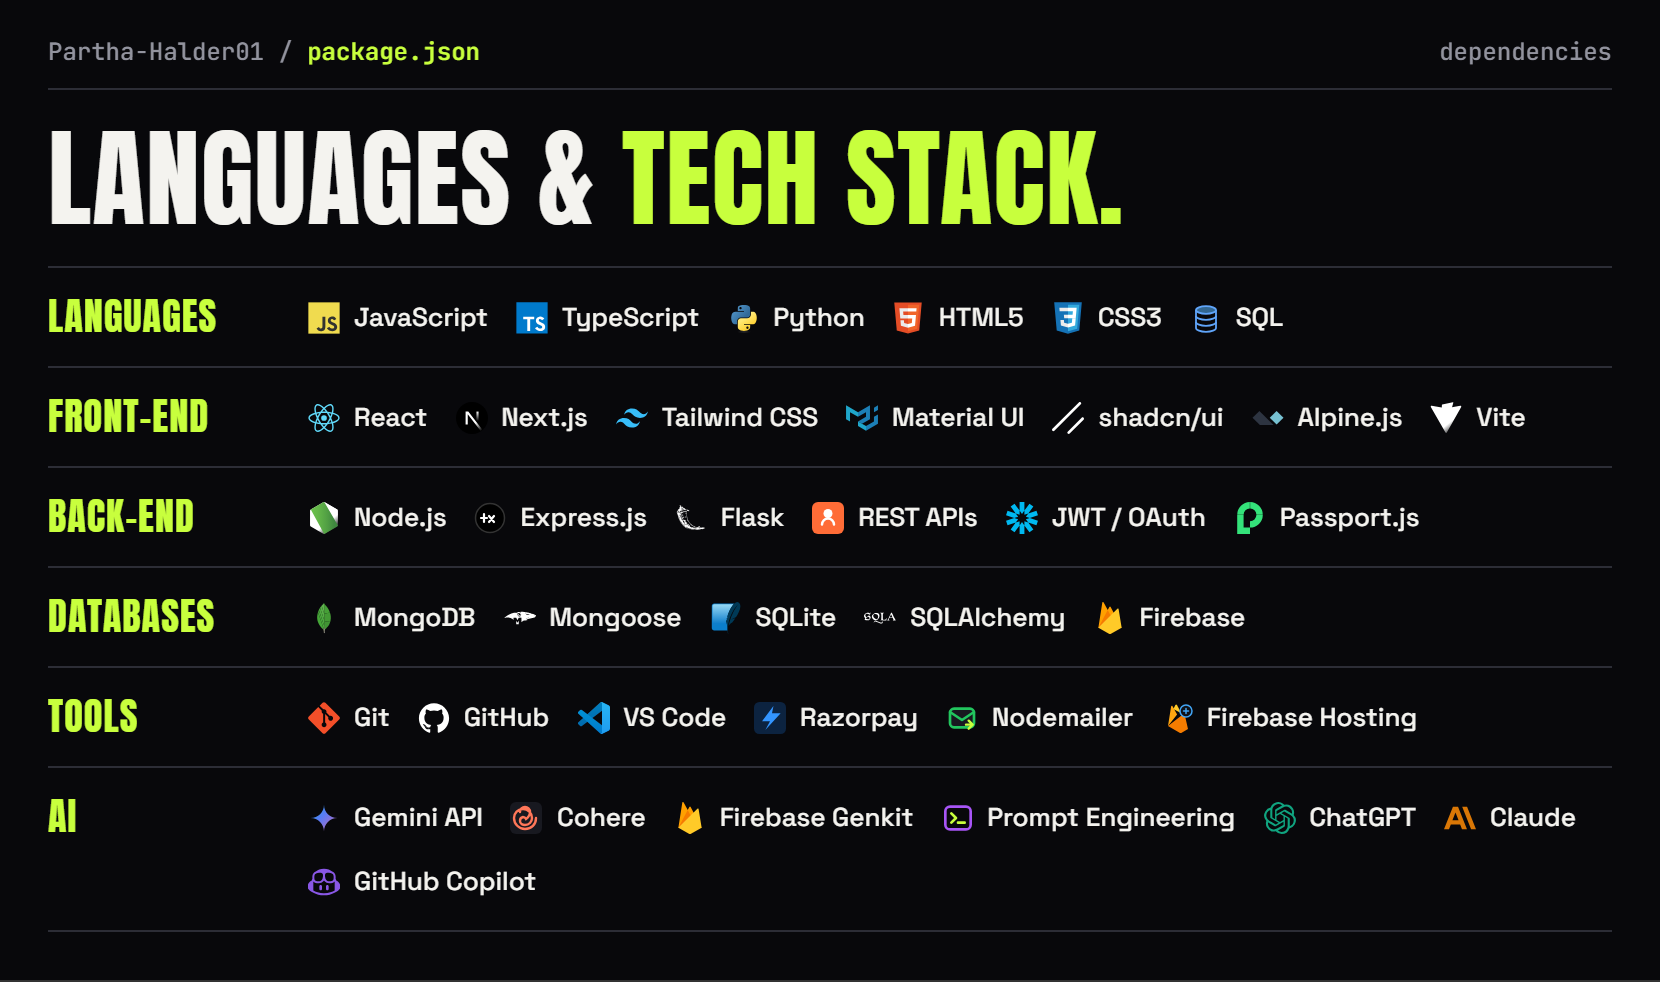
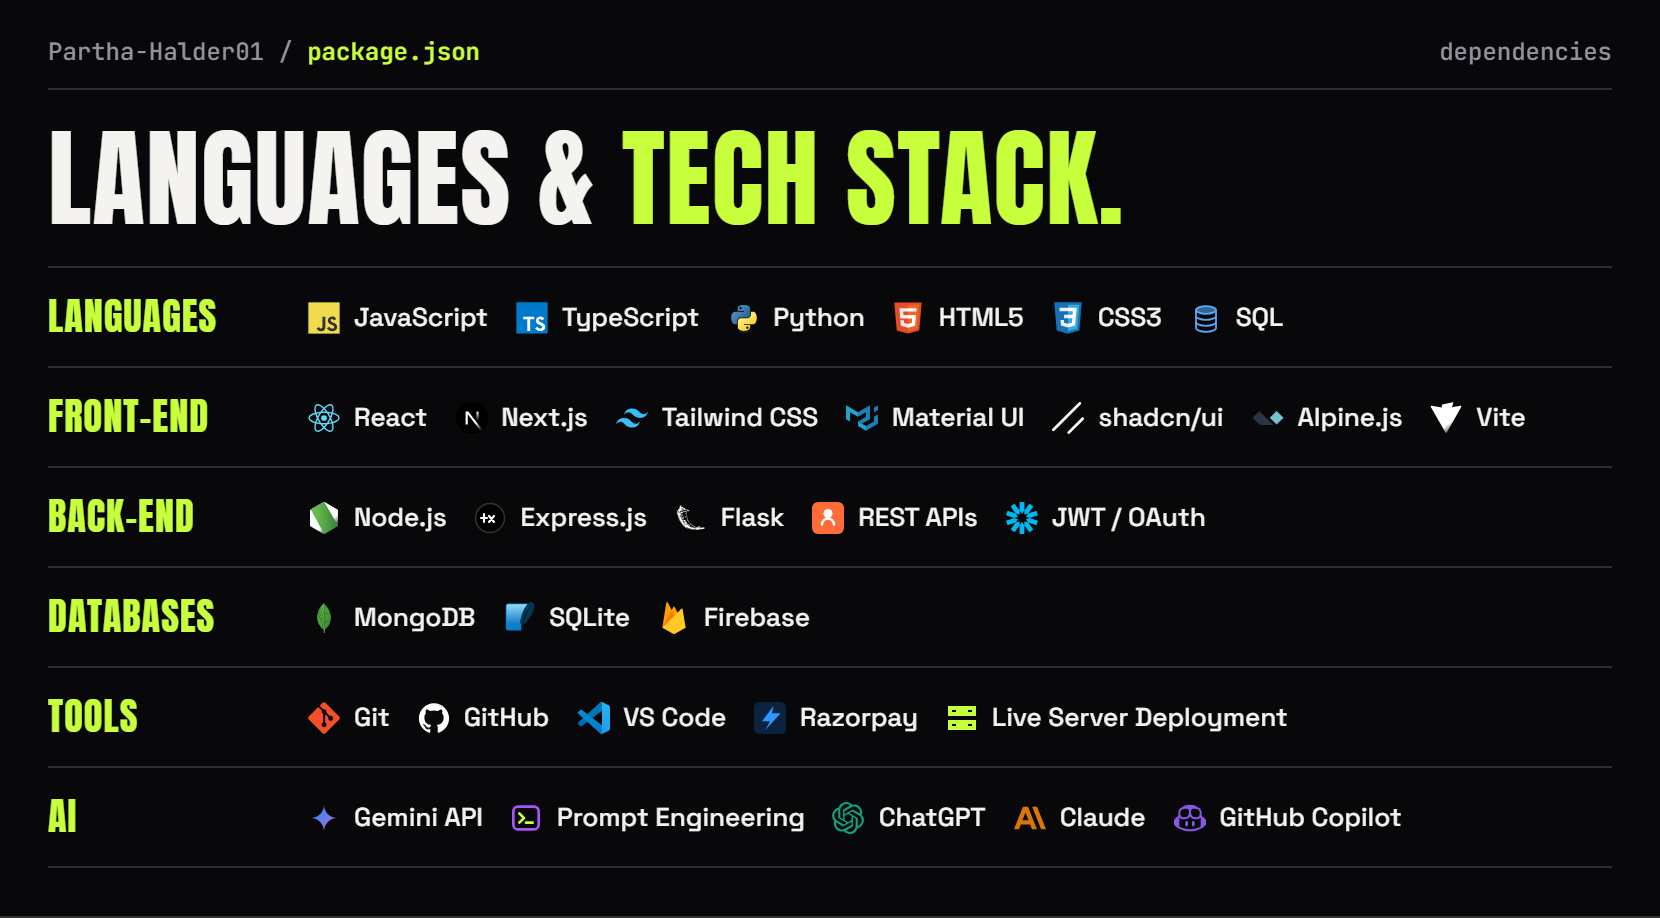
Update tech stack and contact buttons

diff --git a/readme.md b/readme.md
@@ -4,10 +4,9 @@
 
 <img src="assets/about.png" width="100%" alt="About: I'm Partha, a Full Stack Developer from West Bengal, India. I build websites, web apps, mobile apps and software end to end, and AI is part of my daily workflow for research, coding, testing and debugging. Studying B.Tech, 2nd year. Diploma in CS and Technology, 2026. Open to full-time roles, internships and freelance.">
 
-<img src="assets/stack.png" width="100%" alt="Languages: JavaScript, TypeScript, Python, HTML5, CSS3, SQL. Front-end: React, Next.js, Tailwind CSS, Material UI, shadcn/ui, Alpine.js, Vite. Back-end: Node.js, Express.js, Flask, REST APIs, JWT and OAuth, Passport.js. Databases: MongoDB, Mongoose, SQLite, SQLAlchemy, Firebase. Tools: Git, GitHub, VS Code, Razorpay, Nodemailer, Firebase Hosting. AI: Gemini API, Cohere, Firebase Genkit, Prompt Engineering, ChatGPT, Claude, GitHub Copilot.">
+<img src="assets/stack.png" width="100%" alt="Languages: JavaScript, TypeScript, Python, HTML5, CSS3, SQL. Front-end: React, Next.js, Tailwind CSS, Material UI, shadcn/ui, Alpine.js, Vite. Back-end: Node.js, Express.js, Flask, REST APIs, JWT and OAuth. Databases: MongoDB, SQLite, Firebase. Tools: Git, GitHub, VS Code, Razorpay, Live Server Deployment. AI: Gemini API, Prompt Engineering, ChatGPT, Claude, GitHub Copilot.">
 
 <p>
   <a href="https://partha.io"><img src="assets/btn-portfolio.png" height="44" alt="Portfolio"></a>
   <a href="https://www.linkedin.com/in/partha-halder-8643b7319"><img src="assets/btn-linkedin.png" height="44" alt="LinkedIn"></a>
-  <a href="mailto:parthahalder756@gmail.com"><img src="assets/btn-hire.png" height="44" alt="Hire me"></a>
 </p>
